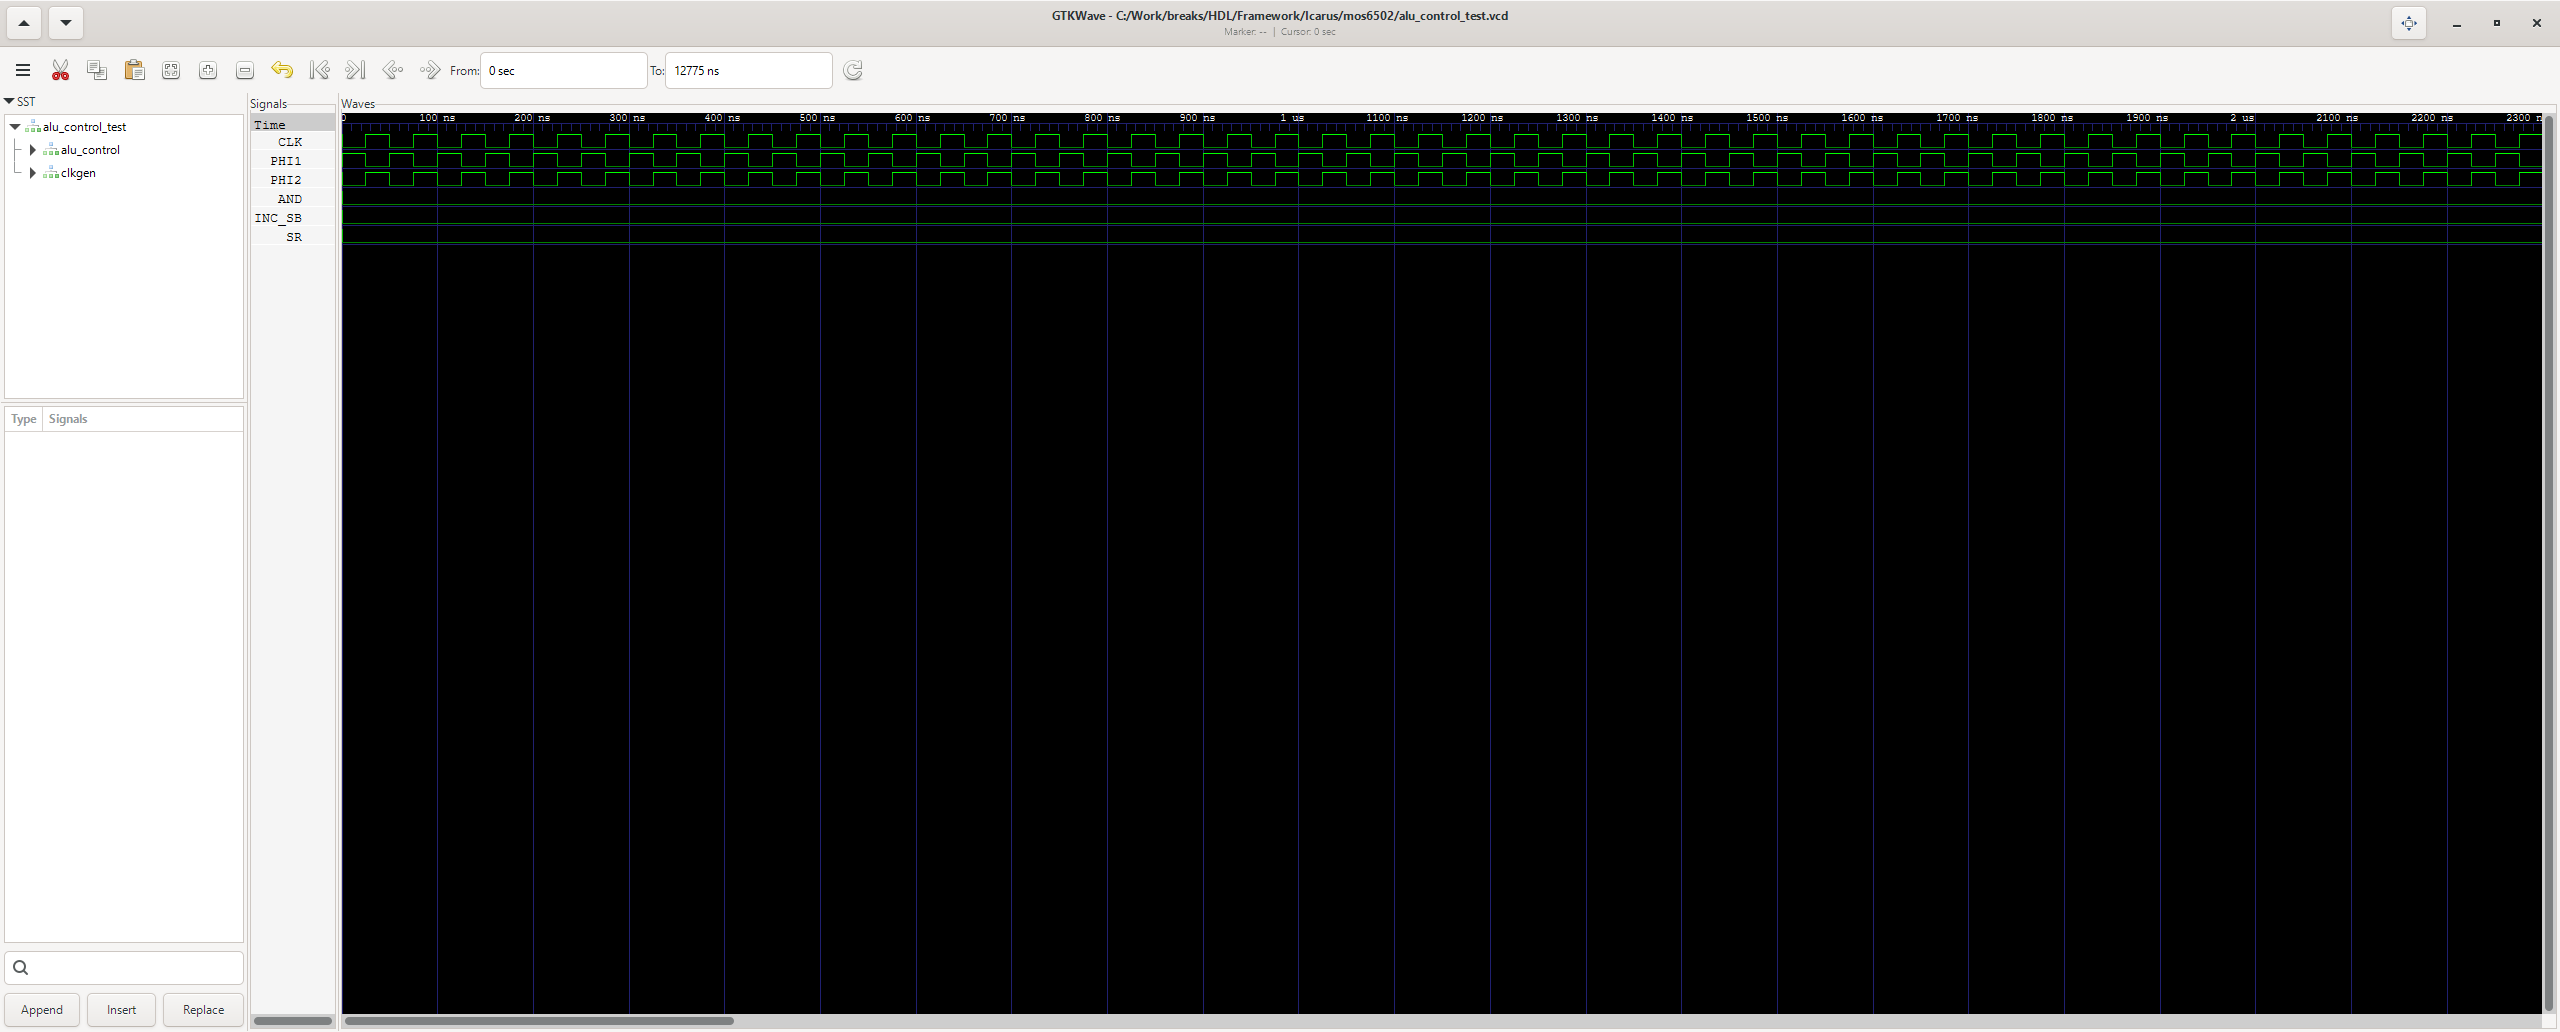
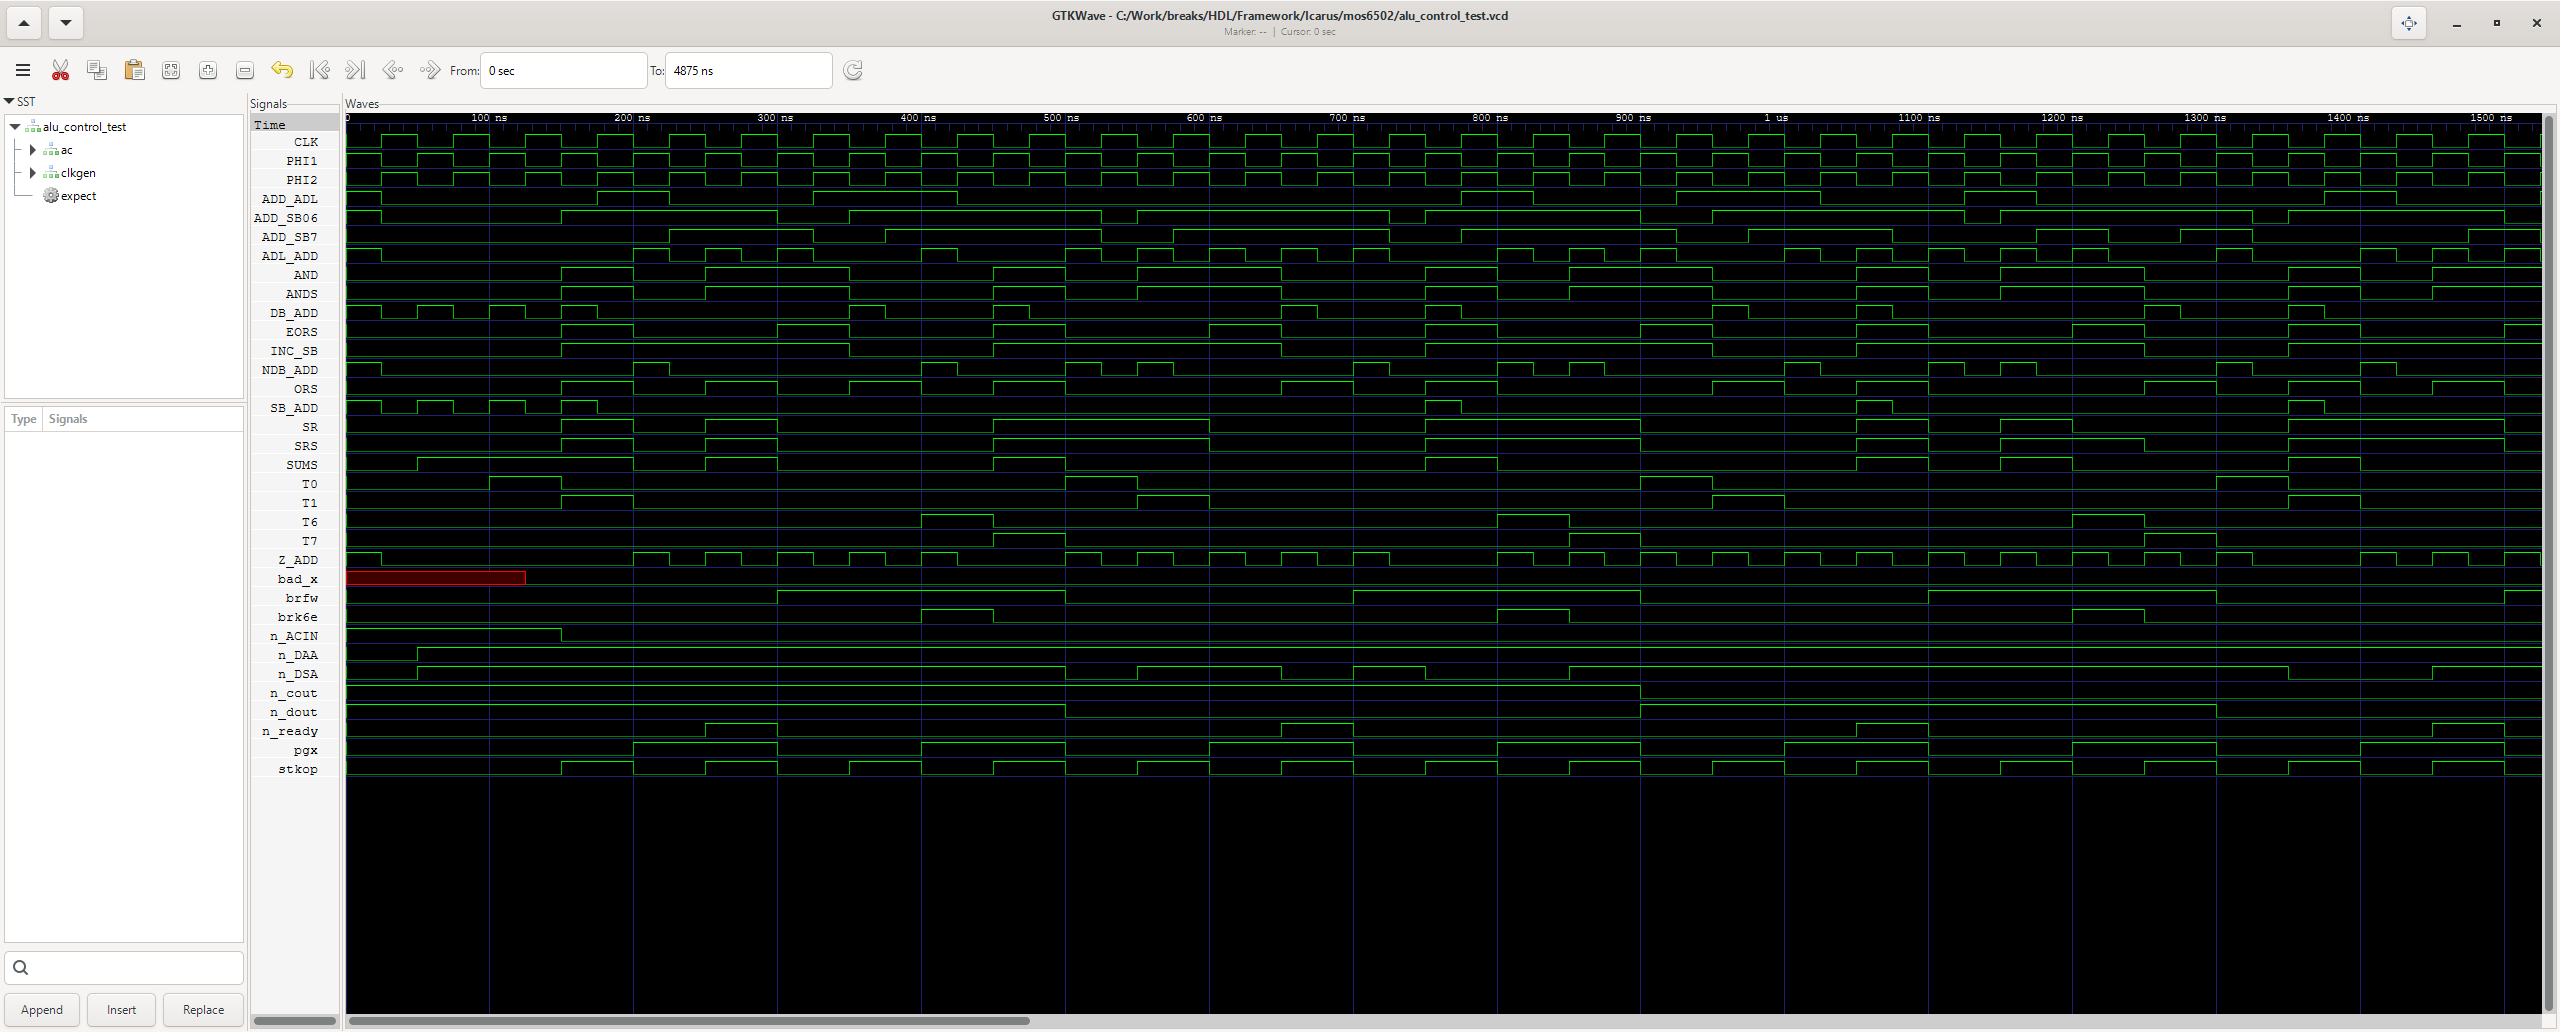
6502 tests: self-checking alu control test
alu_control_test sweeps T-states and X decode patterns, checks the
combinational AND/SR/INC_SB equations and that every registered output
(NDB_ADD..n_DSA) settles to 0/1 (384 checks, TEST PASS). Waveform
screenshot regenerated.

diff --git a/HDL/Framework/Icarus/mos6502/Waves.md b/HDL/Framework/Icarus/mos6502/Waves.md
@@ -30,7 +30,7 @@ Scripts/gtkw_capture_all.sh
 | branch_logic_test | TEST PASS (128 checks) | ![waves/branch_logic_test.png](waves/branch_logic_test.png) |
 | brk_test | waveform | ![waves/brk_test.png](waves/brk_test.png) |
 | dispatch_test | waveform | ![waves/dispatch_test.png](waves/dispatch_test.png) |
-| alu_control_test | waveform | ![waves/alu_control_test.png](waves/alu_control_test.png) |
+| alu_control_test | TEST PASS (384 checks) | ![waves/alu_control_test.png](waves/alu_control_test.png) |
 | bus_control_test | TEST PASS (195 checks) | ![waves/bus_control_test.png](waves/bus_control_test.png) |
 | flags_control_test | waveform | ![waves/flags_control_test.png](waves/flags_control_test.png) |
 | pc_control_test | waveform | ![waves/pc_control_test.png](waves/pc_control_test.png) |
